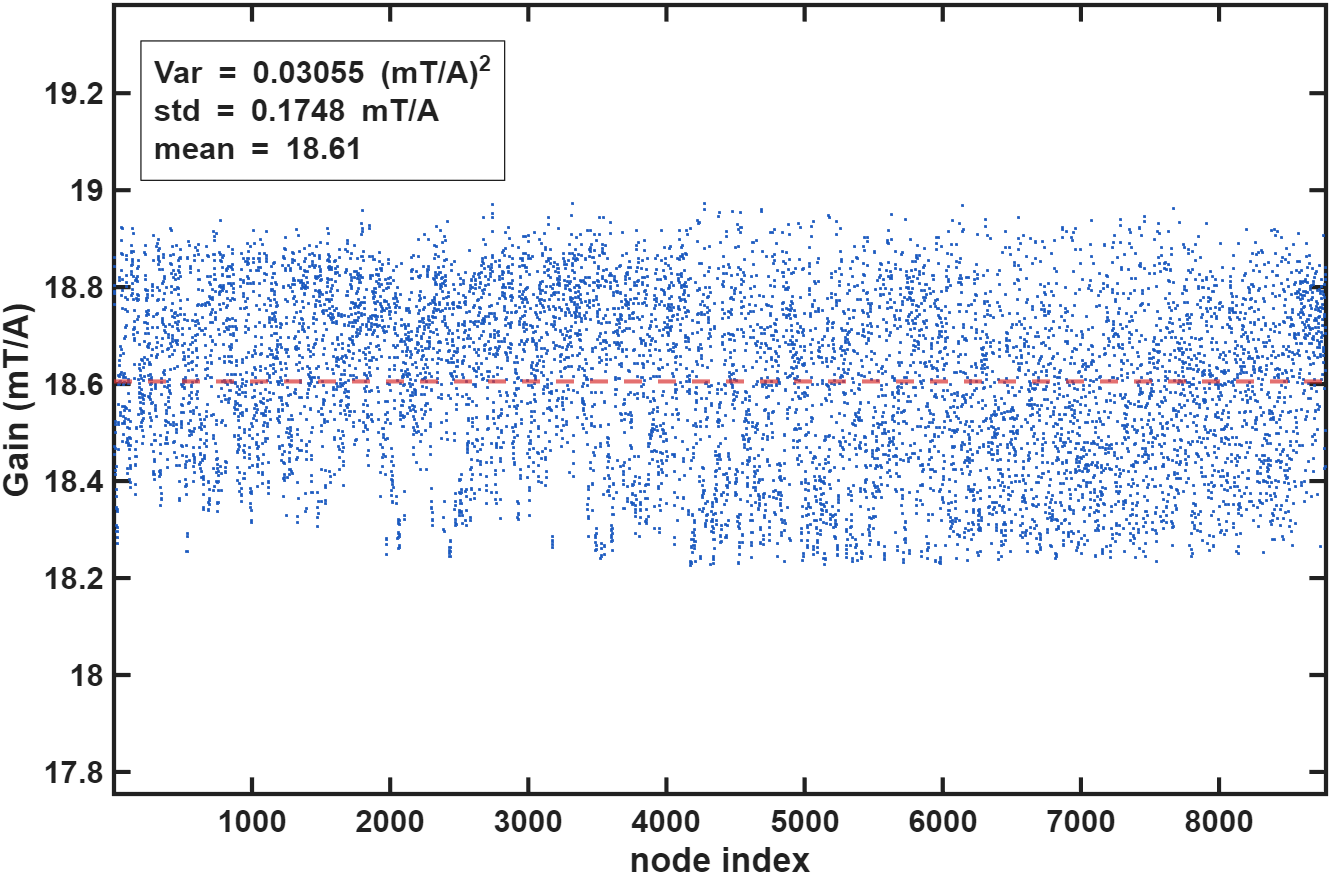
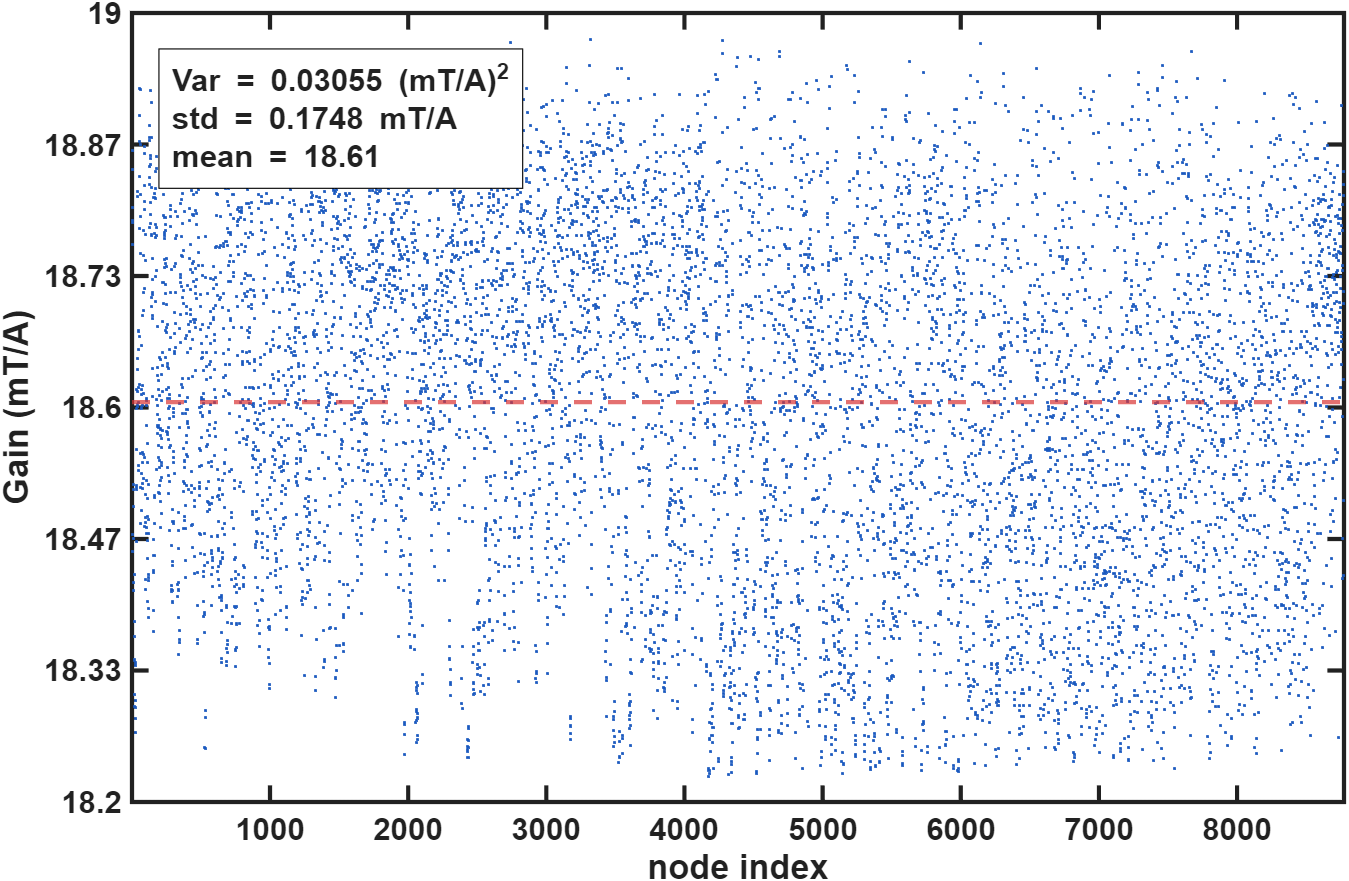
index plots: 6 y-tick intervals (match iso); SVD hills: x_m/y_m axis labels
index (gain/iso vs node): revert the shared gain y-axis; each plot keeps its own
data range but the y-axis is forced to 6 equal intervals (7 ticks), so gain and
iso have the same number of tick intervals.

SVD hill surfs (fix+bias, gain+iso): relabel the two horizontal axes x_m / y_m
(measure frame, consistent with frames_lattice); vertical axis stays Gain (mT/A) / iso.

diff --git a/magnetic_sim/ANSYS/main/matlab/long2016_hexapole_halfcut/Calibration_using_FEM_modeling/no_fix_dir/code/plot/plot_gain_iso_index.m b/magnetic_sim/ANSYS/main/matlab/long2016_hexapole_halfcut/Calibration_using_FEM_modeling/no_fix_dir/code/plot/plot_gain_iso_index.m
@@ -37,13 +37,11 @@ function plot_gain_iso_index()
 
     fixfig = fullfile(calroot,'fix_dir','figures');
     nofig  = fullfile(nofix,'figures');
-    % gain：fix/bias 兩張共用同一 y 軸尺度（涵蓋兩組資料 + 小 margin），散布大小才能直接比對
-    gall = [gf; gb];  gpad = 0.04*(max(gall)-min(gall));
-    glim = [min(gall)-gpad, max(gall)+gpad];
-    render_index(gf,  'Gain (mT/A)', '(mT/A)^2', 'mT/A', fullfile(fixfig,'gain_index.png'), glim);
-    render_index(isf, 'iso',         '',         '',     fullfile(fixfig,'iso_index.png'),  []);
-    render_index(gb,  'Gain (mT/A)', '(mT/A)^2', 'mT/A', fullfile(nofig, 'gain_index.png'), glim);
-    render_index(isb, 'iso',         '',         '',     fullfile(nofig, 'iso_index.png'),  []);
+    % 四張各自 auto y 範圍，但 y 軸一律固定切 6 段（7 刻度）→ gain 與 iso 刻度區間數一致
+    render_index(gf,  'Gain (mT/A)', '(mT/A)^2', 'mT/A', fullfile(fixfig,'gain_index.png'));
+    render_index(isf, 'iso',         '',         '',     fullfile(fixfig,'iso_index.png'));
+    render_index(gb,  'Gain (mT/A)', '(mT/A)^2', 'mT/A', fullfile(nofig, 'gain_index.png'));
+    render_index(isb, 'iso',         '',         '',     fullfile(nofig, 'iso_index.png'));
 
     fprintf('\n=== 逐節點 gain/iso（R≤150µm 球 %d 節點）===\n', npts);
     fprintf('Var  gain: fix=%.5g  bias=%.5g (mT/A)^2 | iso: fix=%.5g  bias=%.5g\n', ...
@@ -52,15 +50,16 @@ function plot_gain_iso_index()
             mean(gf), mean(gb), mean(isf), mean(isb));
 end
 
-function render_index(y, ylab, vunit, sunit, out, yl)
-    if nargin < 6, yl = []; end
+function render_index(y, ylab, vunit, sunit, out)
     v = var(y);  s = std(y);  m = mean(y);  n = numel(y);
     fig = figure('Color','w','Position',[80 80 1000 620]); hold on;
     plot(1:n, y, '.', 'MarkerSize', 4, 'Color', [0.10 0.35 0.75]);
     yline(m, '--', 'Color', [0.85 0.20 0.20], 'LineWidth', 2);
     grid off; box on;
     xlim([1 n]);
-    if ~isempty(yl); ylim(yl); end
+    yl = ylim;                                              % 各圖自己的 auto y 範圍
+    yt = linspace(yl(1), yl(2), 7);                         % 固定 6 段（7 刻度）→ 四張刻度區間數一致
+    set(gca,'YTick', yt, 'YTickLabel', arrayfun(@(v) sprintf('%.4g',v), yt, 'UniformOutput', false));
     set(gca,'FontSize',15,'FontWeight','bold','LineWidth',2,'TickLength',[.012 .012]);
     xlabel('node index','FontWeight','bold');
     ylabel(ylab,'FontWeight','bold');

diff --git a/magnetic_sim/ANSYS/main/matlab/long2016_hexapole_halfcut/Calibration_using_FEM_modeling/no_fix_dir/code/plot/plot_svd_gain_iso_3d.m b/magnetic_sim/ANSYS/main/matlab/long2016_hexapole_halfcut/Calibration_using_FEM_modeling/no_fix_dir/code/plot/plot_svd_gain_iso_3d.m
@@ -66,8 +66,8 @@ function render_hill(X, Y, Z, zlab, outpng, flipcmap)
     tol = 0.055*(zmx - zmn);                                      % 丟掉太靠近端點的自動刻度，避免與 min/max 標籤重疊
     zt = unique([zmn, zt(zt>zmn+tol & zt<zmx-tol), zmx]);        % 保留內部自動刻度 + 多加 min/max
     set(gca,'ZTick', zt, 'ZTickLabel', arrayfun(@(v) sprintf('%.4g',v), zt, 'UniformOutput',false));
-    xlabel('x (\mum)','FontWeight','bold');
-    ylabel('y (\mum)','FontWeight','bold');
+    xlabel('x_m (\mum)','FontWeight','bold');
+    ylabel('y_m (\mum)','FontWeight','bold');
     zlabel(zlab,'FontWeight','bold');
 
     cb = colorbar; cb.FontSize = 16; cb.FontWeight = 'bold';

diff --git a/magnetic_sim/ANSYS/main/matlab/long2016_hexapole_halfcut/Calibration_using_FEM_modeling/fix_dir/code/plot/plot_svd_gain_iso_3d.m b/magnetic_sim/ANSYS/main/matlab/long2016_hexapole_halfcut/Calibration_using_FEM_modeling/fix_dir/code/plot/plot_svd_gain_iso_3d.m
@@ -64,8 +64,8 @@ function render_hill(X, Y, Z, zlab, outpng, flipcmap)
     tol = 0.055*(zmx - zmn);                                     % 丟掉太靠近端點的自動刻度，避免與 min/max 標籤重疊
     zt = unique([zmn, zt(zt>zmn+tol & zt<zmx-tol), zmx]);       % 保留內部自動刻度 + 多加 min/max
     set(gca,'ZTick', zt, 'ZTickLabel', arrayfun(@(v) sprintf('%.4g',v), zt, 'UniformOutput',false));
-    xlabel('x (\mum)','FontWeight','bold');
-    ylabel('y (\mum)','FontWeight','bold');
+    xlabel('x_m (\mum)','FontWeight','bold');
+    ylabel('y_m (\mum)','FontWeight','bold');
     zlabel(zlab,'FontWeight','bold');
 
     cb = colorbar; cb.FontSize = 16; cb.FontWeight = 'bold';
